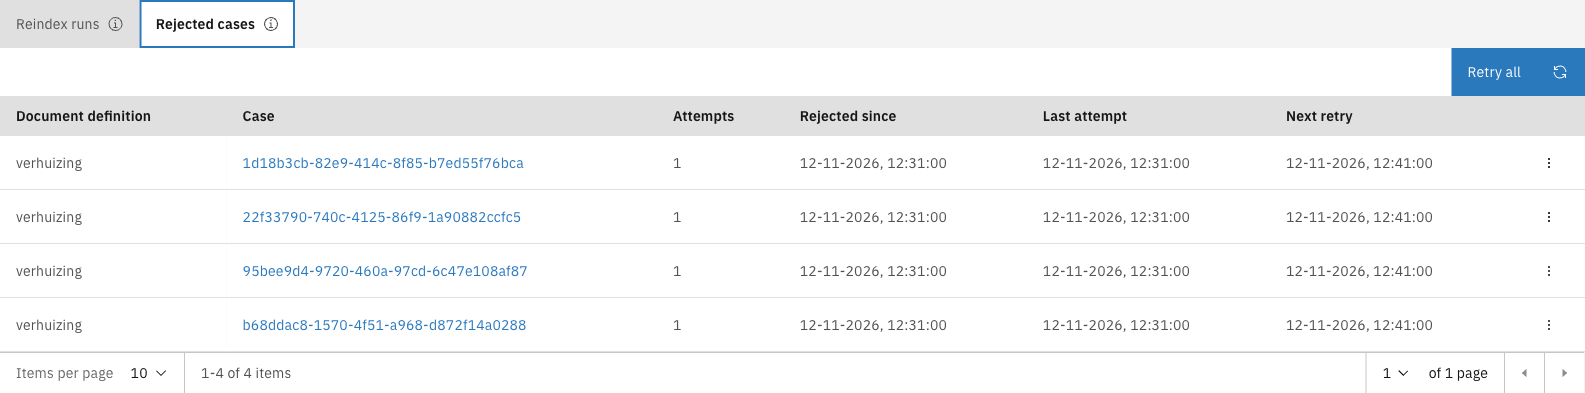
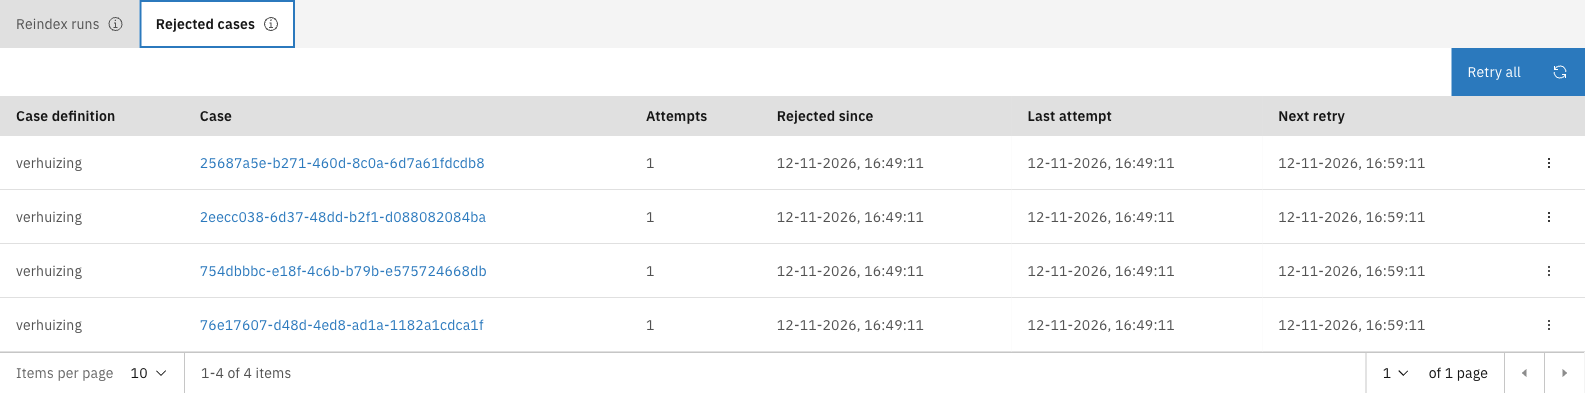
Use one term per language on the OpenSearch admin screen
The Dutch UI used the forbidden "zaken" for cases and had reverted the
definition column from "Dossierdefinitie" back to "Documentdefinitie";
English mixed "Document definition", "case types" and "case definitions"
for the same concept.

- nl: tab/button -> "Geweigerde dossiers" (matching the rest of the
  screen); definition labels, placeholders, tooltip and the rejections
  column -> "Dossierdefinitie"
- en: definition labels, placeholders and the rejections column ->
  "Case definition"; stray "case types" -> "case definitions"
- Remove the unused rejections.title key from both files
- Align the configuration guide on "case definition", add the missing
  "Pruning orphaned documents" run status, tighten figcaptions, and
  recapture the affected screenshots

diff --git a/documentation/configuration-guides/opensearch/README.md b/documentation/configuration-guides/opensearch/README.md
@@ -16,7 +16,7 @@ appears only when OpenSearch is enabled for the installation.
 The screen is split into two tabs — **Reindex runs** and **Rejected cases**. The information icon in
 each tab header explains what that tab is for.
 
-<figure><img src="../../assets/configuration-guides/opensearch/01-opensearch-menu.png" alt=""><figcaption>The OpenSearch admin screen, with the Reindex runs and Rejected cases tabs</figcaption></figure>
+<figure><img src="../../assets/configuration-guides/opensearch/01-opensearch-menu.png" alt=""><figcaption>The OpenSearch admin screen</figcaption></figure>
 
 ---
 
@@ -24,7 +24,7 @@ each tab header explains what that tab is for.
 
 A reindex copies cases from the database into OpenSearch. It runs in the background, so you can
 leave the screen while it works. The **Reindex runs** tab lists each run with its status, the
-document definition it covered, its start and finish time, and progress.
+case definition it covered, its start and finish time, and progress.
 
 <figure><img src="../../assets/configuration-guides/opensearch/02-reindex-runs-overview.png" alt=""><figcaption>The Reindex runs tab</figcaption></figure>
 
@@ -45,7 +45,7 @@ Choose the reindex options
 {% step %}
 Click **Start Reindex** to begin. The new run appears at the top of the list.
 
-<figure><img src="../../assets/configuration-guides/opensearch/04-start-reindex-modal-filled.png" alt=""><figcaption>An example reindex scoped to one case type with a full rebuild</figcaption></figure>
+<figure><img src="../../assets/configuration-guides/opensearch/04-start-reindex-modal-filled.png" alt=""><figcaption>A reindex scoped to one case definition</figcaption></figure>
 {% endstep %}
 {% endstepper %}
 
@@ -56,8 +56,8 @@ The **Start Reindex** button is disabled while a run is already in progress.
 | Option | Description |
 |--------|-------------|
 | Prune orphaned documents | Remove entries from OpenSearch that no longer exist in the database. |
-| Rebuild / migrate index | Rebuild the index into a fresh one and swap it in without downtime. For a run over all case types this also migrates off the legacy shared index to one index per case definition. |
-| Document definition | Limit the reindex to a single case type. Leave on **All document definitions** to reindex every case type. |
+| Rebuild / migrate index | Rebuild the index into a fresh one and swap it in without downtime. For a run over all case definitions this also migrates off the legacy shared index to one index per case definition. |
+| Case definition | Limit the reindex to a single case definition. Leave on **All case definitions** to reindex every case definition. |
 | Modified after | Only reindex cases changed after the chosen date. Not available when **Rebuild / migrate index** is enabled — a rebuild always reindexes every case in scope. |
 
 ### Run status
@@ -65,6 +65,7 @@ The **Start Reindex** button is disabled while a run is already in progress.
 | Status | Meaning |
 |--------|---------|
 | Running | The run is in progress. |
+| Pruning orphaned documents | The run is removing search entries that no longer exist in the database. |
 | Completed | Every case in scope was indexed. |
 | Completed with errors | The run finished, but one or more cases could not be indexed and were skipped. |
 | Failed | The run could not finish. |
@@ -73,17 +74,17 @@ The **Start Reindex** button is disabled while a run is already in progress.
 ### Run details
 
 Expand a run with the chevron on the left of its row to see its parameters (start and finish time,
-document definition, prune and modified-after settings) and progress. Progress bars show the
+case definition, prune and modified-after settings) and progress. Progress bars show the
 reindexing — and, when enabled, the pruning — phase.
 
-<figure><img src="../../assets/configuration-guides/opensearch/05b-reindex-run-completed.png" alt=""><figcaption>An expanded run that indexed every case</figcaption></figure>
+<figure><img src="../../assets/configuration-guides/opensearch/05b-reindex-run-completed.png" alt=""><figcaption>An expanded completed run</figcaption></figure>
 
 When a run ends as **Completed with errors**, it offers two links: **View rejected cases** opens the
 **Rejected cases** tab, and **View error logs** jumps to the application log filtered to that run,
 where the reason for each skipped case is recorded. A **Failed** run offers the **View error logs**
 link.
 
-<figure><img src="../../assets/configuration-guides/opensearch/05-reindex-run-expanded.png" alt=""><figcaption>An expanded run that completed with skipped cases</figcaption></figure>
+<figure><img src="../../assets/configuration-guides/opensearch/05-reindex-run-expanded.png" alt=""><figcaption>An expanded run with skipped cases</figcaption></figure>
 
 ---
 
@@ -94,18 +95,18 @@ using the database instead of OpenSearch. No action is required unless a notific
 
 | Notification | Meaning |
 |--------------|---------|
-| **Index rebuild required** | The installation still uses the legacy document-search index, or one or more case types have no index yet. Start a reindex with **Rebuild / migrate index** enabled to migrate to the per-case-type indices. Search uses the database until the migration completes. |
+| **Index rebuild required** | The installation still uses the legacy document-search index, or one or more case definitions have no index yet. Start a reindex with **Rebuild / migrate index** enabled to migrate to the per-case-definition indices. Search uses the database until the migration completes. |
 | **Indexing existing cases** | OpenSearch is indexing existing cases in the background. Search uses the database until this finishes. No action is needed. |
-| **Some cases are searched in the database** | OpenSearch could not index some cases of the listed case types. Their case lists use the database in the meantime. These cases are listed on the **Rejected cases** tab. |
+| **Some cases are searched in the database** | OpenSearch could not index some cases of the listed case definitions. Their case lists use the database in the meantime. These cases are listed on the **Rejected cases** tab. |
 
-<figure><img src="../../assets/configuration-guides/opensearch/06-topology-notification.png" alt=""><figcaption>A notification shown when some cases fall back to the database</figcaption></figure>
+<figure><img src="../../assets/configuration-guides/opensearch/06-topology-notification.png" alt=""><figcaption>A database-fallback notification</figcaption></figure>
 
 ---
 
 ## Rejected cases
 
 When OpenSearch cannot index a case, it is listed on the **Rejected cases** tab. Until a rejected
-case is indexed, the case lists of its case type use the database. OpenSearch retries rejected cases
+case is indexed, the case lists of its case definition use the database. OpenSearch retries rejected cases
 automatically at growing intervals: after 10 minutes, then hourly, then daily. The reason for each
 rejection is recorded in the application log.
 
@@ -117,7 +118,7 @@ The **Rejected cases** tab is always available; when every case is indexed it sh
 
 | Column | Description |
 |--------|-------------|
-| Document definition | The document definition (case type) the rejected case belongs to. |
+| Case definition | The case definition the rejected case belongs to. |
 | Case | A link to the rejected case. |
 | Attempts | How many times indexing has been tried. |
 | Rejected since | When the case was first rejected. |
